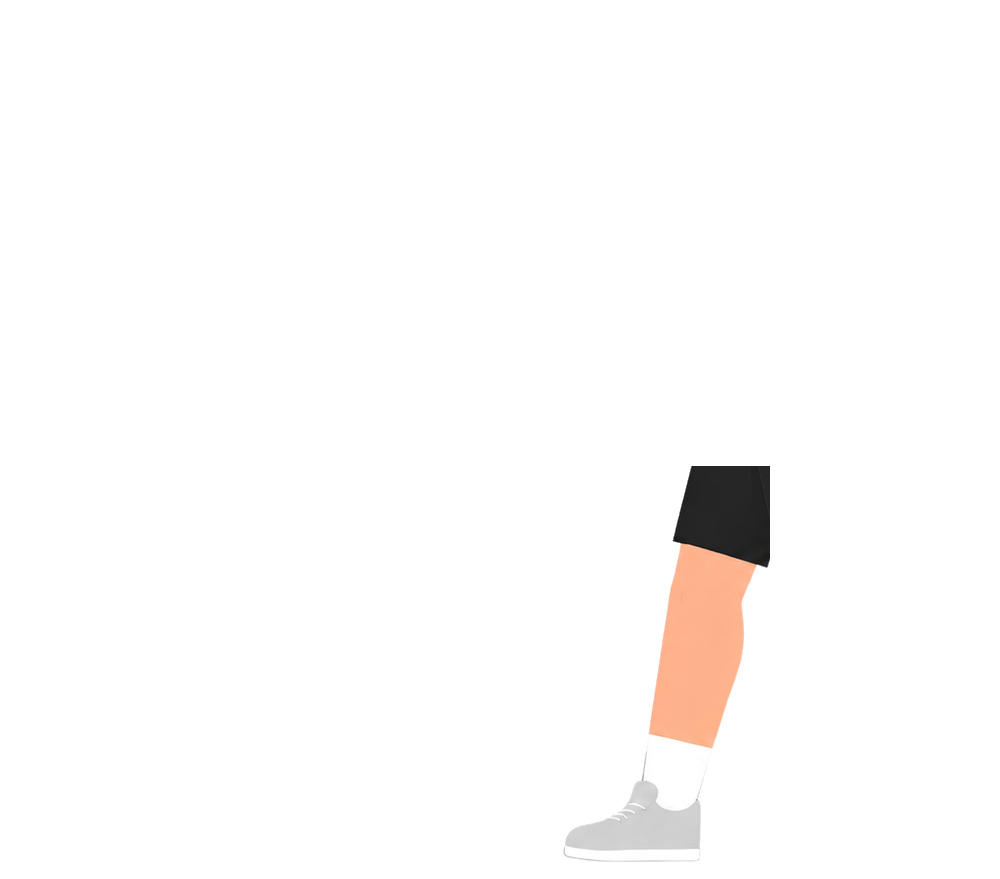
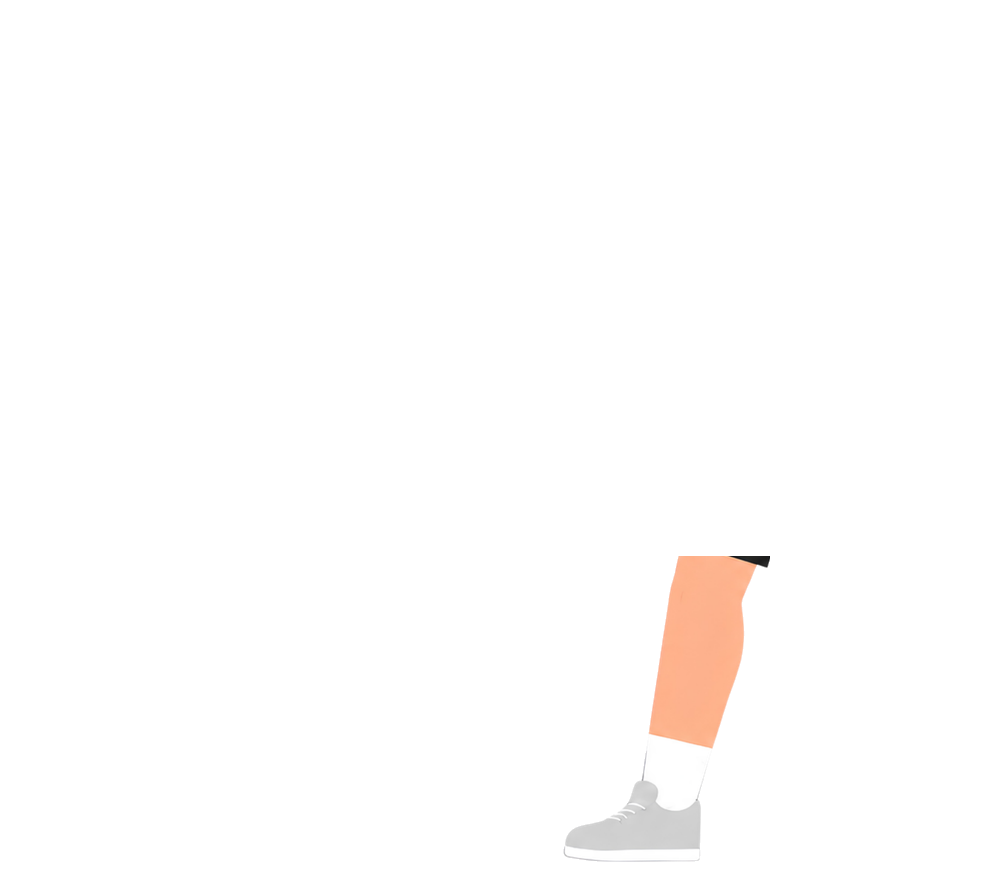
Fix shorts flare: keep intact static shorts, swing bare legs from the hip
Revert the "split shorts into each leg" rig that flared like a skirt when
the legs swung. The body now keeps the full, intact shorts (static), and
only the bare legs below the hem are sliced and animated, pivoting right
at the shorts hem. Removes the now-unused backing layer.

Claude-Session: https://claude.ai/code/session_017AKfGzf3Sfxhq9y6MEekg6

Changed region(s): [[0.651, 0.5222, 0.775, 0.6451]]

diff --git a/styles.css b/styles.css
@@ -222,8 +222,8 @@ a { color: inherit; text-decoration: none; }
 /* Natural walk: each leg alternates between the drawn stride and its mirror,
    passing through "legs together" (overlap) at the quarter points. Pivots sit
    close together at the hip so the legs scissor past each other. */
-.leg-back  { transform-origin: 79% 53%; animation: stepBack  1.05s ease-in-out infinite; }
-.leg-front { transform-origin: 76% 53%; animation: stepFront 1.05s ease-in-out infinite; }
+.leg-back  { transform-origin: 82.9% 63.3%; animation: stepBack  1.05s ease-in-out infinite; }
+.leg-front { transform-origin: 71.8% 63.3%; animation: stepFront 1.05s ease-in-out infinite; }
 @keyframes stepFront {
   0%   { transform: rotate(2deg); }
   50%  { transform: rotate(-26deg); }

diff --git a/index.html b/index.html
@@ -73,7 +73,6 @@
     <div class="mow-track">
       <div class="mower-rig">
         <div class="char">
-          <img class="layer backing"   src="assets/char-backing.png" alt="" aria-hidden="true" />
           <img class="layer leg-front" src="assets/char-leg-front.png" alt="" aria-hidden="true" />
           <img class="layer leg-back"  src="assets/char-leg-back.png"  alt="" aria-hidden="true" />
           <img class="layer body"      src="assets/char-body.png" alt="A person walking and mowing the lawn" />

diff --git a/extract_and_slice.py b/extract_and_slice.py
@@ -28,21 +28,18 @@ rr = np.arange(ch)[:, None] * np.ones((1, cw))
 cc = np.ones((ch, 1)) * np.arange(cw)
 
 # slice lines (derived from the profile of this clean art)
-# Each leg is torn off WITH its half of the shorts so it swings naturally.
-# The cut sits just below the gripping hands; above it the shorts are occluded
-# by the arms, so the body keeps that sliver.
-LEG_TOP = 466      # below the hands; shorts are included from here down
-SHORTS_LEFT = 656  # left edge of the shorts (excludes the hand + handle) in the upper band
-MIDROW = 553       # below the crotch use LEG_LEFT; above it use SHORTS_LEFT
+# The shorts stay intact and static in the body (so they never break or flare).
+# Only the bare legs are sliced off and swung; each leg is one rigid straight
+# piece below the shorts hem.
+LEG_TOP = 556      # the shorts hem; legs below here are bare
+BODY_KEEP = 562    # body keeps the full (intact) shorts above this
 CROTCH = 770       # split between the two legs
-LEG_LEFT = 615     # right of the mower for the lower legs/feet
+LEG_LEFT = 615     # right of the mower / handle
 FOOT_TOP = 806     # below here the leading foot's toe juts left of LEG_LEFT
 FOOT_LEFT = 545    # capture the whole leading shoe so it doesn't tear
 
-frontcols = (((rr < MIDROW) & (cc >= SHORTS_LEFT)) |
-             ((rr >= MIDROW) & (cc >= LEG_LEFT)) |
-             ((rr >= FOOT_TOP) & (cc >= FOOT_LEFT)))
-front = op & (rr >= LEG_TOP) & (cc < CROTCH) & frontcols
+front = op & (rr >= LEG_TOP) & (cc < CROTCH) \
+    & ((cc >= LEG_LEFT) | ((rr >= FOOT_TOP) & (cc >= FOOT_LEFT)))
 back = op & (rr >= LEG_TOP) & (cc >= CROTCH)
 
 def clean(m):
@@ -57,9 +54,9 @@ def clean(m):
     return out
 
 front, back = clean(front), clean(back)
-body = op & ~(front | back)
-# keep a thin shorts sliver in the body to hide the seam at the top of the legs
-body |= (op & (rr >= LEG_TOP) & (rr < LEG_TOP + 10) & (cc >= SHORTS_LEFT))
+body = op.copy()
+body[(rr >= BODY_KEEP) & (cc >= LEG_LEFT)] = False
+body[(rr >= FOOT_TOP) & (cc >= FOOT_LEFT) & (cc < LEG_LEFT)] = False  # release the leading toe
 
 def save(mask, name):
     out = np.zeros_like(arr)
@@ -69,12 +66,6 @@ def save(mask, name):
 save(body, 'assets/char-body.png')
 save(front, 'assets/char-leg-front.png')
 save(back, 'assets/char-leg-back.png')
-
-# Backing: the intact shorts/pelvis band from the SAME source art (so its shape
-# matches the leg-shorts exactly) sits BEHIND the legs so the crotch never shows
-# a gap when the legs swing apart and split the shorts.
-backing = op & (rr >= 388) & (rr < 566)
-save(backing, 'assets/char-backing.png')
 
 fx = cc[front & (rr < LEG_TOP + 26)].mean()
 bx = cc[back & (rr < LEG_TOP + 26)].mean()